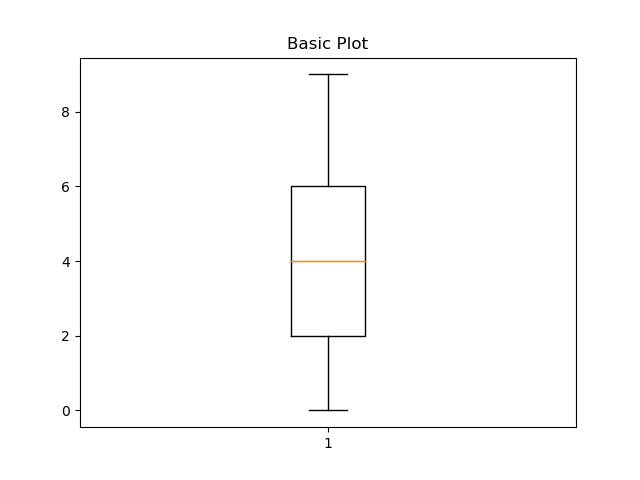
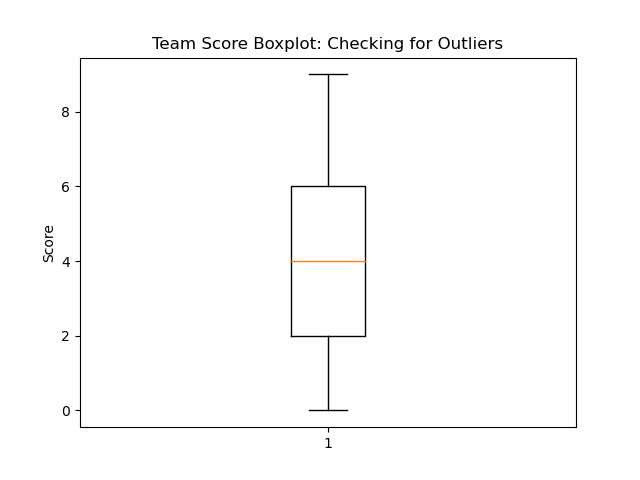
Improved task4 graph labelling

Changed region(s): [[0.25, 0.0625, 0.7812, 0.125], [0.0625, 0.4688, 0.0938, 0.5625]]

diff --git a/scratch.py b/scratch.py
@@ -60,18 +60,18 @@ with open ('task3.csv', 'w', newline='') as csvfile:
         writer.writerows(ArticleMatches)
 '''
 #Task 4
-'''
+
 with open('task3.csv', 'r', encoding='utf8') as TotalGoals:
     next(TotalGoals)
     data = [item[1] for item in TotalGoals]
+    data = [int(datum) for datum in data]
 
-data = [int(datum) for datum in data]
 
 fig1, ax1 = plt.subplots()
 ax1.set_title('Basic Plot')
 ax1.boxplot(data)
 plt.savefig('task4.png')
-'''
+
 
 #Task 5
 '''
@@ -182,7 +182,7 @@ whitespace character exists between each word
 == Remove all remaining words that are only a single character long from the resulting list
 '''
 
-filename = '001.txt'
+'''filename = '001.txt'
 filepath = articlespath + "/"+ filename
 with open(filepath, 'r', encoding='utf8') as CurrentArticle:
     text = CurrentArticle.read()
@@ -211,7 +211,7 @@ for word in answer:
 print(diff)
 
 for i in range(len(textTokenized)):
-    print(textTokenized[i], answer[i], "\n")
+    print(textTokenized[i], answer[i], "\n")'''
 
 
 

diff --git a/assignment1.py b/assignment1.py
@@ -71,8 +71,9 @@ def task4():
         data = [int(datum) for datum in data]
 
     fig1, ax1 = plt.subplots()
-    ax1.set_title('Basic Plot')
+    ax1.set_title('Team Score Boxplot: Checking for Outliers')
     ax1.boxplot(data)
+    plt.ylabel("Score")
     plt.savefig('task4.png')
 
     return
